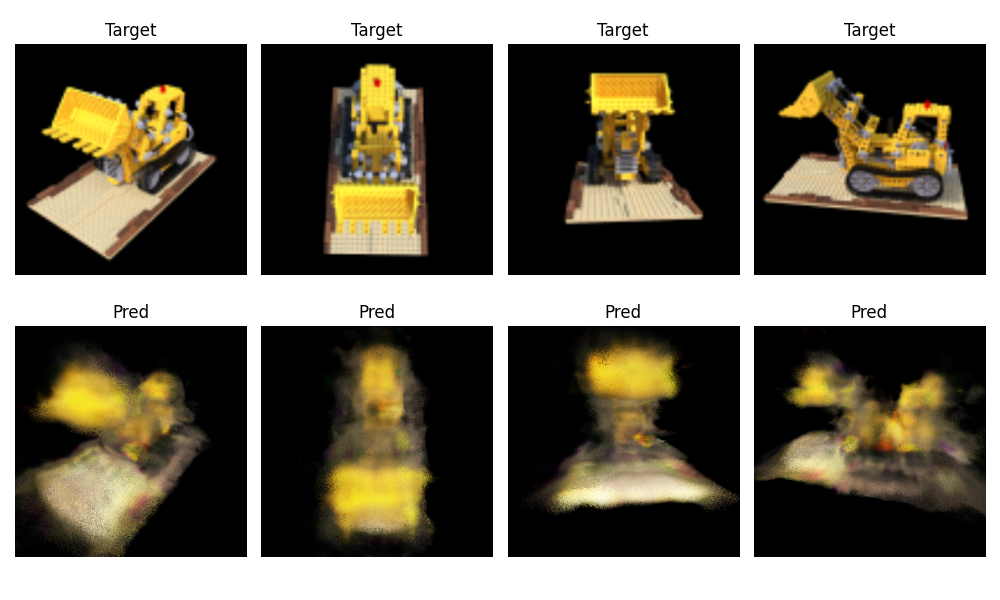
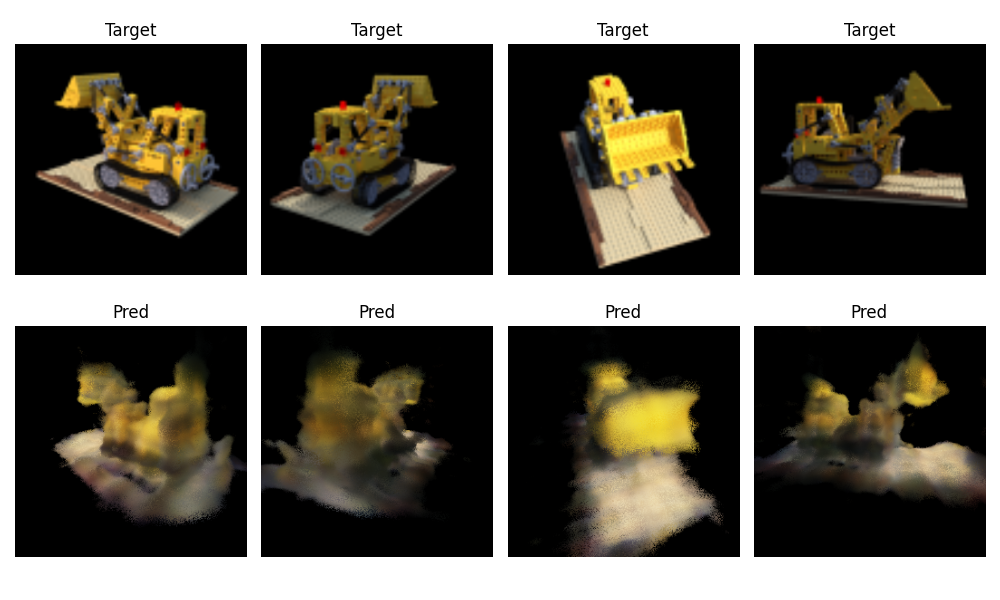
volume rendering in slang

diff --git a/image_model.py b/image_model.py
@@ -22,28 +22,28 @@ m = slangpy.loadModule('image-model.slang',
                             'WARP_SIZE': 32})
 N_samples = 32
 class RenderImage(torch.autograd.Function):
-    def forward(ctx, width, height, feature_grid, viewdirs, *args):
+    def forward(ctx, width, height, feature_grid, viewdirs, dists, *args):
         weights = args[0: 3]
         biases = args[3: 6]
-        #output = torch.zeros((width, height, 3), dtype=torch.float).cuda()
-        output = torch.zeros((width, height, N_samples, 4), dtype=torch.float).cuda()
+        output = torch.zeros((width, height, 3), dtype=torch.float).cuda()
         
         linear_layers = [m.Linear(weights=weights[i], bias=biases[i]) for i in range(3)]
         mlp = m.MLP(layers=linear_layers)
 
         blockSize = launchBlockSize
         gridSize = ((width + blockSize[0] - 1) // blockSize[0], 
-                    (height + blockSize[1] - 1) // blockSize[1], 
-                    (N_samples + blockSize[2] - 1) // blockSize[2])
+                    (height + blockSize[1] - 1) // blockSize[1], 1)
 
-        m.renderImage(mlp=mlp, featureGrid=feature_grid, viewDir = viewdirs, imageOutput=output).launchRaw(blockSize=blockSize, gridSize=gridSize)
+        m.renderImage(mlp=mlp, featureGrid=feature_grid, 
+                      viewDir = viewdirs, dists = dists, 
+                      imageOutput=output).launchRaw(blockSize=blockSize, gridSize=gridSize)
 
-        ctx.save_for_backward(output, feature_grid, viewdirs, *args)
+        ctx.save_for_backward(output, feature_grid, viewdirs, dists, *args)
 
         return output
     
     def backward(ctx, grad_output):
-        output, feature_grid, viewdir, *args = ctx.saved_tensors
+        output, feature_grid, viewdir, dists, *args = ctx.saved_tensors
         weights = args[0: 3]
         biases = args[3: 6]
 
@@ -51,17 +51,19 @@ class RenderImage(torch.autograd.Function):
         biases_d = [torch.zeros_like(b) for b in biases]
         feature_grid_d = torch.zeros_like(feature_grid)
         viewdir_d = torch.zeros_like(viewdir)
+        dists_d = torch.zeros_like(dists)
 
-        width, height, _, _ = output.shape
+        width, height, _ = output.shape
         
         linear_layers = [m.Linear(weights=(weights[i], weights_d[i]), bias=(biases[i], biases_d[i])) for i in range(3)]
         mlp = m.MLP(layers=linear_layers)
 
         blockSize = launchBlockSize
         gridSize = ((width + blockSize[0] - 1) // blockSize[0], 
-                    (height + blockSize[1] - 1) // blockSize[1], 
-                    (N_samples + blockSize[2] - 1) // blockSize[2])
+                    (height + blockSize[1] - 1) // blockSize[1], 1)
 
-        m.renderImage.bwd(mlp=mlp, featureGrid=(feature_grid, feature_grid_d), viewDir=(viewdir, viewdir_d), imageOutput=(output, grad_output)).launchRaw(blockSize=blockSize, gridSize=gridSize)
+        m.renderImage.bwd(mlp=mlp, featureGrid=(feature_grid, feature_grid_d), 
+                          viewDir=(viewdir, viewdir_d), dists = (dists, dists_d),
+                          imageOutput=(output, grad_output)).launchRaw(blockSize=blockSize, gridSize=gridSize)
 
-        return None, None, feature_grid_d, None,  *weights_d, *biases_d
+        return None, None, feature_grid_d, None, None, *weights_d, *biases_d

diff --git a/run_nerf.py b/run_nerf.py
@@ -9,6 +9,7 @@ from encoding import embed_fn
 from image_model import RenderImage
 from nerfstudio.field_components import encodings
 import numpy as np
+torch.cuda.empty_cache()
 
 #hash encoding params
 num_levels = 8
@@ -47,16 +48,16 @@ start = time.time()
 for i in range(iterations):
     #img_i = 0  
     img_i = np.random.randint(100)
-    x, z_vals, target_image, viewdirs = dataset.get_data(img_i)
+    x, z_vals, dists, target_image, viewdirs = dataset.get_data(img_i)
     encoded_x = x                #encoded_x = embed_fn(x)
     encoded_viewdirs = viewdirs  #encoded_viewdirs = embed_fn(viewdirs)
 
     y_pred = RenderImage.apply(
         width, height,
-        encoded_x, encoded_viewdirs,
+        encoded_x, encoded_viewdirs, dists,
         w1, w2, w3,
         b1, b2, b3)
-    y_pred = rendering(y_pred, z_vals)
+    #y_pred = rendering(y_pred, z_vals)
     loss = loss_fn(y_pred, target_image)
     
     psnr = -10. * torch.log(loss) / torch.math.log(10.)

diff --git a/volume_rendering.py b/volume_rendering.py
@@ -4,7 +4,8 @@ def rendering(x, z_vals):
     sigma_a = torch.relu(x[..., 3])
     rgb = torch.sigmoid(x[..., :3])
     dists = torch.cat([z_vals[..., 1:] - z_vals[..., :-1], 
-                        torch.broadcast_to(torch.tensor([1e10], device=z_vals.device), z_vals[..., :1].shape)], -1)
+                        torch.broadcast_to(torch.tensor([1e10], 
+                        device=z_vals.device), z_vals[..., :1].shape)], -1)
     alpha = 1.0 - torch.exp(-sigma_a * dists)
     padded_alpha = torch.cat([torch.ones_like(alpha[..., :1]), 1.0 - alpha + 1e-10], dim=-1)
     cumprod = torch.cumprod(padded_alpha, dim=-1)[..., :-1] 

diff --git a/sampling.py b/sampling.py
@@ -43,4 +43,8 @@ class Dataset():
                             device=rays_o.device) * (self.far - self.near) / self.N_samples
         pts = rays_o[..., None, :] + rays_d[..., None, :] * z_vals[..., :, None]
         pts = pts.reshape(self.H,self.W, self.N_samples, 3)
-        return pts, z_vals, target_image, viewdirs
+        
+        dists = torch.cat([z_vals[..., 1:] - z_vals[..., :-1], 
+                        torch.broadcast_to(torch.tensor([1e10], 
+                        device=z_vals.device), z_vals[..., :1].shape)], -1)
+        return pts, z_vals, dists, target_image, viewdirs

diff --git a/run_nerf_hashen.py b/run_nerf_hashen.py
@@ -53,7 +53,7 @@ optimizer = torch.optim.Adam([w1, w2, w3, b1, b2, b3, feature_grid], lr=3e-2)
 loss_fn = torch.nn.MSELoss()
 
 intermediate_images = []
-iterations = 1000
+iterations = 5000
 
 import time
 start = time.time()
